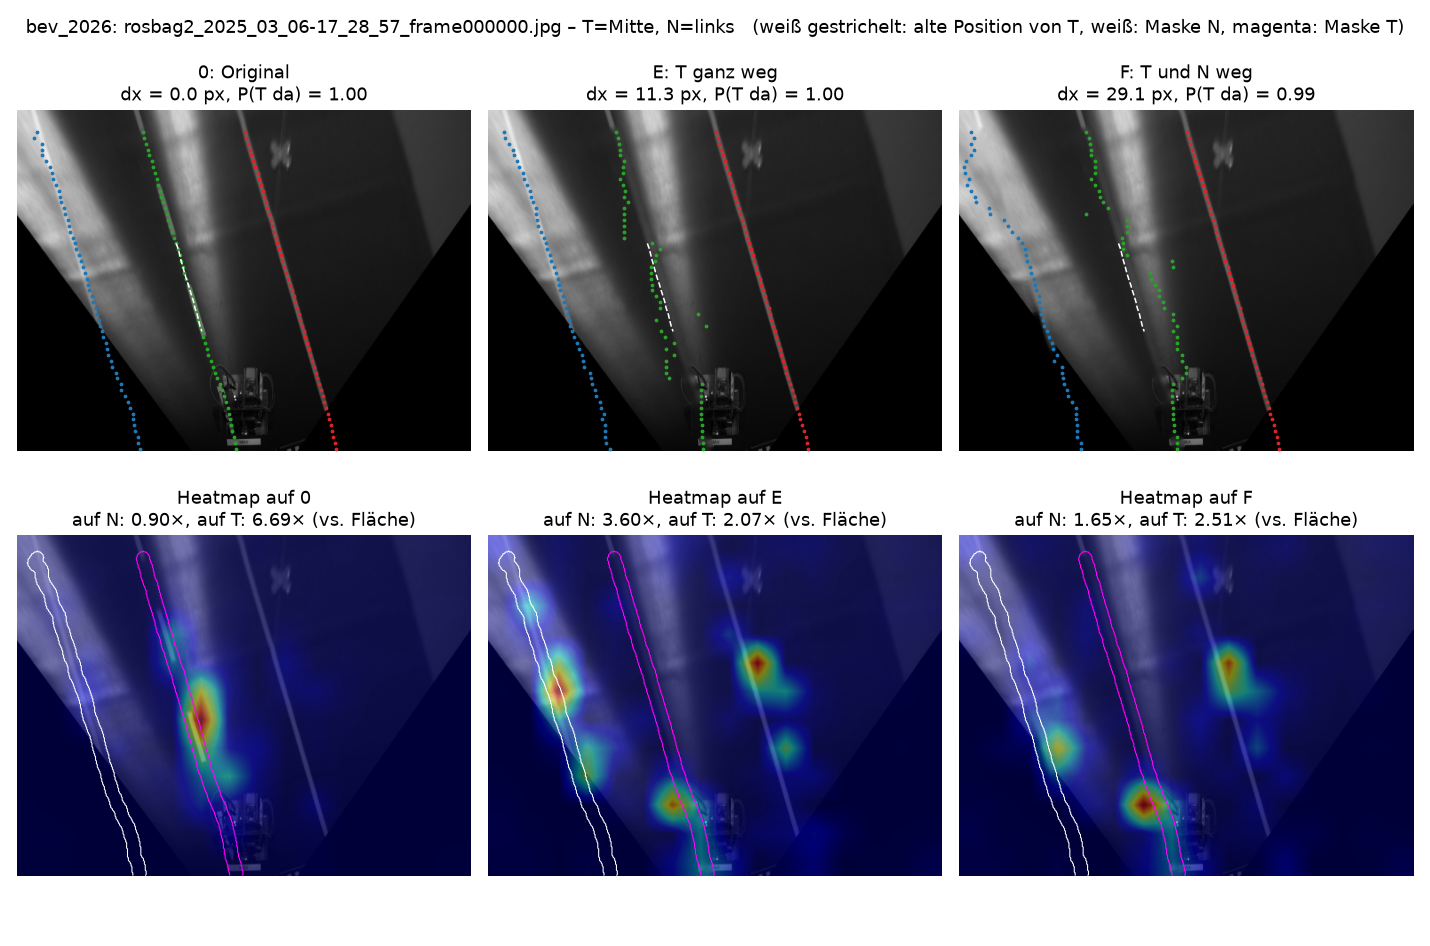
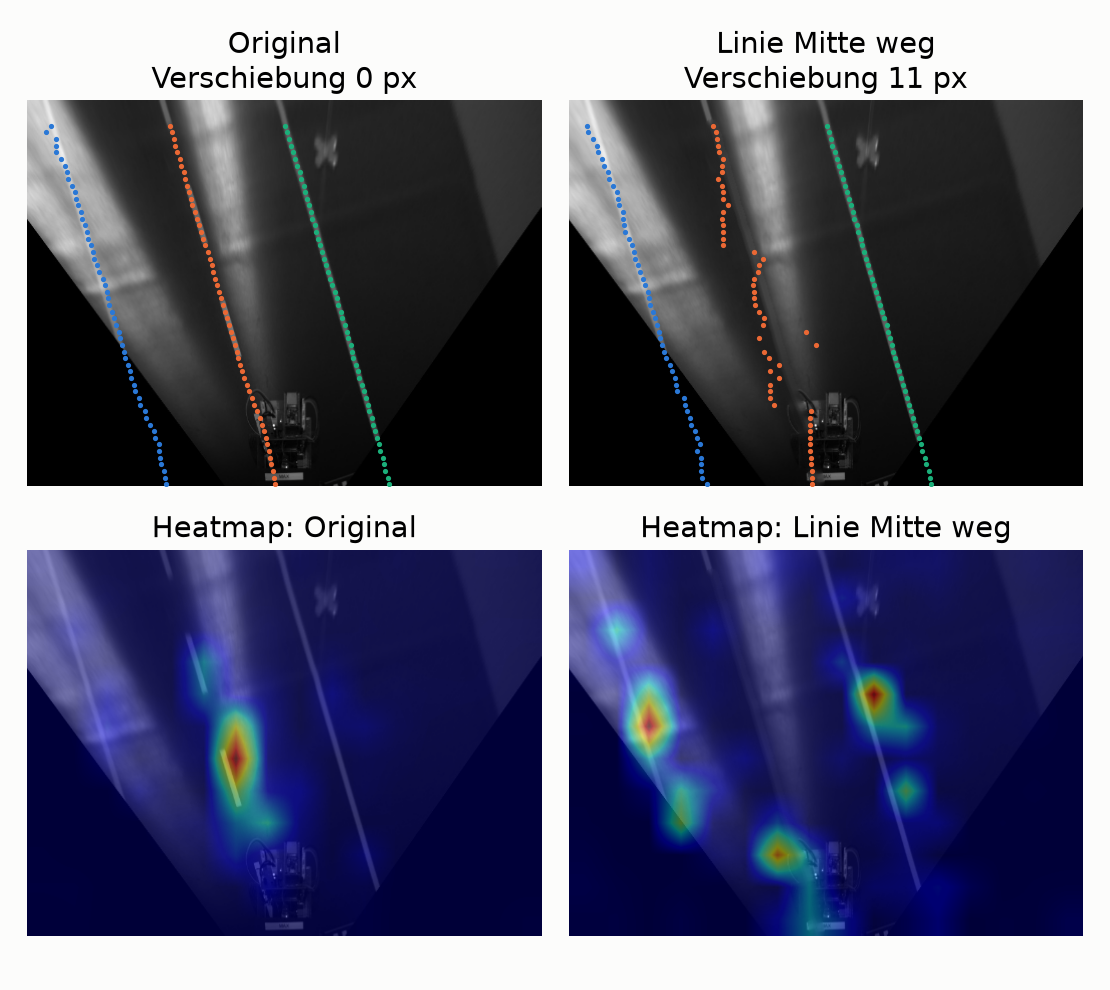
README an den Stand der Abgabe angepasst, Folienbilder und Herkunft ergänzt

diff --git a/experiments/08_praesi_bilder.py b/experiments/08_praesi_bilder.py
@@ -6,15 +6,25 @@ Schritt "Verdecken" (occlusion.py):
   3. Maske gefüllt mit inpaint (fill), so wie im Hauptergebnis
   4. Zum Vergleich: median, dort bleibt ein flacher Streifen sichtbar
 
+Schritt "Ein Beispiel" (run_frame wie 01_first_look.py, nur größer beschriftet für die Folie):
+  Original gegen T weg, oben mit Vorhersage, unten die Heatmaps
+
+Schritt "Heatmap pro Linie": für jede der drei Linien oben die Heatmap im Original
+  (wo sucht das Modell diese Linie?), unten dieselbe Linie weggenommen (wohin weicht es aus?)
+
+Schritt "Sanity Check": Heatmap trainiert gegen schrittweise zufällige Gewichte (wie 07_sanity_check.py)
+
 Schritt "Viele Bilder" (02_batch.py, muss vorher gelaufen sein):
-  links:  Verschiebung von T, E (nur T weg) gegen F (T und N weg), je Linienpaar
-  rechts: Heatmap auf N, Original gegen E (T weg), je Linienpaar
+  Heatmap auf N, Original gegen T weg, je Linienpaar
 
 Aufruf:  .venv/bin/python experiments/08_praesi_bilder.py [--frame 0] [--lane 1] [--model bev_2026]
-Ausgabe: docs/bilder/praesi/schritt_verdecken_ganz.png, schritt_viele_bilder.png
+Ausgabe: docs/bilder/praesi/schritt_verdecken_ganz.png, schritt_ein_bild.png, schritt_pro_linie.png,
+         schritt_sanity_heatmaps.png, schritt_viele_bilder.png
 """
 
 import argparse
+import copy
+import importlib
 
 import pandas as pd
 
@@ -27,6 +37,8 @@ import torch
 
 from xai_lane import paths
 from xai_lane.decode import decode_row_lanes
+from xai_lane.cam import compute_cam
+from xai_lane.experiment import default_layer, run_frame
 from xai_lane.model_loader import load_model
 from xai_lane.occlusion import fill, polyline_mask
 from xai_lane.preprocess import load_gray, to_model_rgb, to_tensor
@@ -34,6 +46,7 @@ from xai_lane.preprocess import load_gray, to_model_rgb, to_tensor
 OUT = paths.PROJECT_ROOT / "docs" / "bilder" / "praesi"
 LANE_NAMES = ["links", "Mitte", "rechts"]
 LANE_COLORS = ["#2a78d6", "#eb6834", "#1baf7a"]
+plt.rcParams.update({"font.size": 12})  # Folien: Schrift muss auch aus der letzten Reihe lesbar sein
 
 
 def predict_lanes(net, cfg, rgb):
@@ -58,25 +71,100 @@ def schritt_verdecken(net, cfg, rgb, T, out):
     mask = polyline_mask(lanes[T], rgb.shape[:2], thickness)  # ganze Linie T, wie Bedingung E
 
     panels = [
-        (rgb, f"1  Vorhersage des Modells\n(decode: 55 Punkte je Linie)"),
-        (overlay(rgb, mask), f"2  Maske: {thickness} px breit entlang\nder Linie {LANE_NAMES[T]} (polyline_mask)"),
-        (fill(rgb, mask, "inpaint"), "3  Gefüllt mit inpaint\n(sieht aus wie Straße)"),
-        (fill(rgb, mask, "median"), "Vergleich: median\n(flacher Streifen bleibt sichtbar)"),
+        (rgb, "1  Vorhersage\n(55 Punkte je Linie)"),
+        (overlay(rgb, mask), f"2  Maske\n({thickness} px entlang der Linie)"),
+        (fill(rgb, mask, "inpaint"), "3  Inpainting\n(sieht aus wie Straße)"),
+        (fill(rgb, mask, "median"), "Vergleich: flache Füllung\n(Streifen bleibt sichtbar)"),
     ]
-    fig, axes = plt.subplots(1, 4, figsize=(16, 3.9))
+    fig, axes = plt.subplots(1, 4, figsize=(12, 3.4))
     for i, (ax, (img, title)) in enumerate(zip(axes, panels)):
         ax.imshow(img)
-        ax.set_title(title, loc="left", fontsize=11, color="#0b0b0b" if i < 3 else "#52514e")
+        ax.set_title(title, loc="left", fontsize=13, color="#0b0b0b" if i < 3 else "#52514e")
         ax.axis("off")
     for k, lane in enumerate(lanes):  # Punkte nur im ersten Panel
         ok = ~np.isnan(lane).any(axis=1)
         axes[0].scatter(lane[ok, 0], lane[ok, 1], s=7, color=LANE_COLORS[k],
                         label=LANE_NAMES[k] + (" (= T)" if k == T else ""))
-    axes[0].legend(loc="lower left", fontsize=8, frameon=True, markerscale=2)
+    axes[0].legend(loc="lower left", fontsize=10, frameon=True, markerscale=2)
     for spine in axes[3].spines.values():
         spine.set_visible(True)
-    fig.suptitle("Verdecken: Wir nehmen die ganze Linie aus dem Bild", x=0.01, ha="left",
-                 fontsize=14, color="#0b0b0b")
+    fig.patch.set_facecolor("#fcfcfb")
+    fig.tight_layout()
+    fig.savefig(out, dpi=150)
+    plt.close(fig)
+    print(f"  {out.relative_to(paths.PROJECT_ROOT)}")
+
+
+def schritt_ein_bild(net, cfg, rgb, T, N, out):
+    """Ein Bild, Original gegen T weg: oben Vorhersage, unten Heatmap (wie 01_first_look.py).
+
+    Bedingung F (zwei Linien weg) kommt auf den Folien nicht als Bild vor, nur als Gegenprobe in Zahlen.
+    """
+    res = run_frame(net, cfg, rgb, T, N, conditions=("0", "E"), cam_images=("0", "E"))
+    titles = {"0": "Original", "E": f"Linie {LANE_NAMES[T]} weg"}
+    fig, axes = plt.subplots(2, 2, figsize=(7.4, 6.6))
+    for ax, (name, img) in zip(axes[0], res.imgs.items()):
+        ax.imshow(img)
+        for k, pts in enumerate(res.preds[name]):
+            ax.plot(pts[:, 0], pts[:, 1], ".", ms=3, color=LANE_COLORS[k])
+        ax.set_title(f"{titles[name]}\nVerschiebung {res.table.loc[name, 'dx_mittel_px']:.0f} px", fontsize=14)
+    for ax, ((img_name, _), cam) in zip(axes[1], res.cams.items()):
+        ax.imshow(res.imgs[img_name])
+        ax.imshow(cam, cmap="jet", alpha=0.45)
+        ax.set_title(f"Heatmap: {titles[img_name]}", fontsize=14)
+    for ax in axes.flat:
+        ax.axis("off")
+    fig.patch.set_facecolor("#fcfcfb")
+    fig.tight_layout()
+    fig.savefig(out, dpi=150)
+    plt.close(fig)
+    print(f"  {out.relative_to(paths.PROJECT_ROOT)}")
+
+
+def schritt_pro_linie(net, cfg, rgb, out):
+    """Pro Linie eine Spalte: oben Heatmap im Original, unten Heatmap mit dieser Linie weggenommen.
+
+    Ziel ist hier die ganze Linie (span 0–1), damit man sieht, wo das Modell die Linie überall sucht.
+    """
+    neighbor = {0: 1, 1: 2, 2: 1}  # N wird nur für die Prüfung in run_frame gebraucht
+    fig, axes = plt.subplots(2, 3, figsize=(10.5, 6.6))
+    for T in range(3):
+        res = run_frame(net, cfg, rgb, T, neighbor[T], span=(0, 1), cam_images=("0", "E"))
+        for row, name in enumerate(("0", "E")):
+            ax = axes[row, T]
+            ax.imshow(res.imgs[name])
+            ax.imshow(res.cams[(name, "hirescam")], cmap="jet", alpha=0.45)
+            ax.set_title(f"Linie {LANE_NAMES[T]}" + (" gesucht" if name == "0" else " weg"), fontsize=14,
+                         color=LANE_COLORS[T] if name == "0" else "#0b0b0b")
+            ax.axis("off")
+    fig.patch.set_facecolor("#fcfcfb")
+    fig.tight_layout()
+    fig.savefig(out, dpi=150)
+    plt.close(fig)
+    print(f"  {out.relative_to(paths.PROJECT_ROOT)}")
+
+
+def schritt_sanity_heatmaps(net, cfg, rgb, T, out):
+    """2 × 2 Heatmaps: trainiert, letzte Schicht zufällig, bis layer4 zufällig, alles zufällig."""
+    sanity = importlib.import_module("07_sanity_check")  # experiments/ liegt beim Aufruf im Suchpfad
+    target, _ = sanity.targets_for(net, cfg, rgb)[T]
+    x = to_tensor(rgb)
+    layer = default_layer(cfg)
+    show = {"trainiert": "trainiert", "cls.3": "+ letzte Schicht zufällig",
+            "layer4": "+ bis layer4 zufällig", "conv1": "alles zufällig"}
+    cams = {"trainiert": compute_cam(net, x, target, "hirescam", layer)}
+    torch.manual_seed(0)
+    rnd = copy.deepcopy(net)  # Kopie, das trainierte Netz bleibt heil
+    for stage, modules in sanity.STAGES[1:]:
+        sanity.randomize(rnd, modules)
+        if stage in show:
+            cams[stage] = compute_cam(rnd, x, target, "hirescam", layer)
+    fig, axes = plt.subplots(2, 2, figsize=(7, 5.6))
+    for ax, (stage, cam) in zip(axes.flat, cams.items()):
+        ax.imshow(rgb)
+        ax.imshow(cam, cmap="jet", alpha=0.5, vmin=0, vmax=1)
+        ax.set_title(show[stage], fontsize=14)
+        ax.axis("off")
     fig.patch.set_facecolor("#fcfcfb")
     fig.tight_layout()
     fig.savefig(out, dpi=150)
@@ -86,18 +174,18 @@ def schritt_verdecken(net, cfg, rgb, T, out):
 
 def _bars(ax, s, left, right, labels, colors, ylabel, title):
     """Zwei Balken je Linienpaar (gepaarter Vergleich), Wert über jeden Balken geschrieben."""
-    groups = [f"{LANE_NAMES[t]} ← {LANE_NAMES[n]}" for t, n in zip(s["T"], s.N)]
+    groups = [f"{LANE_NAMES[t]}\n← {LANE_NAMES[n]}" for t, n in zip(s["T"], s.N)]
     w = 0.38
     for off, col, lab, color in ((-w / 2, left, labels[0], colors[0]), (w / 2, right, labels[1], colors[1])):
         x = np.arange(len(s)) + off
         ax.bar(x, s[col], w, color=color, label=lab, edgecolor="#fcfcfb", linewidth=2)
         for xi, v in zip(x, s[col]):
-            ax.text(xi, v, f"{v:.1f}", ha="center", va="bottom", fontsize=9, color="#52514e")
-    ax.set_ylim(0, 1.3 * s[[left, right]].max().max())  # Platz für die Legende über den Balken
+            ax.text(xi, v, f"{v:.1f}", ha="center", va="bottom", fontsize=11, color="#52514e")
+    ax.set_ylim(0, 1.45 * s[[left, right]].max().max())  # Platz für die Legende über den Balken
     ax.set_xticks(range(len(s)), groups)
     ax.set_xlabel("Linie T ← Nachbarlinie N", color="#52514e")
     ax.set_ylabel(ylabel, color="#52514e")
-    ax.set_title(title, loc="left", color="#0b0b0b")
+    ax.set_title(title, loc="left", color="#0b0b0b", fontsize=13)
     ax.legend(frameon=False, loc="upper left")
     ax.grid(axis="y", color="#e4e3df", linewidth=0.8)
     ax.set_axisbelow(True)
@@ -114,13 +202,10 @@ def schritt_viele_bilder(model, out):
         print(f"  übersprungen, erst 02_batch.py laufen lassen ({csv} fehlt)")
         return
     s = pd.read_csv(csv)
-    fig, (a1, a2) = plt.subplots(1, 2, figsize=(14, 4.8))
-    _bars(a1, s, "dx_E_median_pct", "dx_F_median_pct", ["E: T weg", "F: T und N weg"], ["#2a78d6", "#eb6834"],
-          "Verschiebung von T\n(Median, % der Bildbreite)", "Ohne Nachbarlinie liegt T weiter daneben")
-    _bars(a2, s, "cam_N_0_median", "cam_N_E_median", ["Original", "E: T weg"], ["#a8a7a2", "#2a78d6"],
+    # nur die Heatmap: F (zwei Linien weg) ist nur eine Gegenprobe und kommt als Zahl auf die Folie
+    fig, ax = plt.subplots(figsize=(7.2, 4.3))
+    _bars(ax, s, "cam_N_0_median", "cam_N_E_median", ["Original", "Linie T weg"], ["#a8a7a2", "#2a78d6"],
           "Heatmap auf N\n(Median, × erwartet nach Fläche)", "Fehlt T, schaut das Modell mehr auf N")
-    fig.suptitle(f"{s.n_Bilder.min()}–{s.n_Bilder.max()} Bilder je Linienpaar, Modell {model}",
-                 x=0.01, ha="left", fontsize=11, color="#52514e")
     fig.patch.set_facecolor("#fcfcfb")
     fig.tight_layout()
     fig.savefig(out, dpi=150)
@@ -132,6 +217,8 @@ def main() -> None:
     p = argparse.ArgumentParser()
     p.add_argument("--frame", type=int, default=0)
     p.add_argument("--lane", type=int, default=1, help="Ziellinie T: 0 links, 1 Mitte, 2 rechts")
+    p.add_argument("--beispiel", type=int, nargs=2, default=(1, 0), metavar=("T", "N"),
+                   help="Linienpaar für die Beispielfolie, Standard: Mitte weg, Nachbar links")
     p.add_argument("--model", default=paths.DEFAULT_MODEL)
     args = p.parse_args()
 
@@ -140,6 +227,9 @@ def main() -> None:
     rgb = to_model_rgb(load_gray(image), cfg.train_width, cfg.train_height)
     OUT.mkdir(parents=True, exist_ok=True)
     schritt_verdecken(net, cfg, rgb, args.lane, OUT / "schritt_verdecken_ganz.png")
+    schritt_ein_bild(net, cfg, rgb, *args.beispiel, OUT / "schritt_ein_bild.png")
+    schritt_pro_linie(net, cfg, rgb, OUT / "schritt_pro_linie.png")
+    schritt_sanity_heatmaps(net, cfg, rgb, args.lane, OUT / "schritt_sanity_heatmaps.png")
     schritt_viele_bilder(args.model, OUT / "schritt_viele_bilder.png")
 
 

diff --git a/src/xai_lane/cam.py b/src/xai_lane/cam.py
@@ -1,6 +1,6 @@
 """HiResCAM (pytorch-grad-cam) für die UFLDv2-Zeilenanker.
 
-Grad-CAM wurde anfangs mitgerechnet und am 2026-11-13 entfernt, siehe docs/PROTOKOLL.md.
+Grad-CAM wurde anfangs mitgerechnet und am 2026-11-13 entfernt, Begründung im README.
 
 pytorch-grad-cam erwartet ein Modell mit einem Tensor als Ausgabe; das Modell
 des Teams liefert ein Dict. LocRowOnly gibt daher nur loc_row weiter.

diff --git a/src/xai_lane/experiment.py b/src/xai_lane/experiment.py
@@ -23,7 +23,7 @@ from xai_lane.occlusion import fill, polyline_mask
 from xai_lane.preprocess import to_tensor
 
 CONDITIONS = ("0", "E", "F")
-CAM_METHODS = ("hirescam",)  # Grad-CAM entfernt, siehe docs/PROTOKOLL.md
+CAM_METHODS = ("hirescam",)  # Grad-CAM entfernt, Begründung im README
 
 
 @dataclass

diff --git a/README.md b/README.md
@@ -1,32 +1,56 @@
 # XAI-Projekt: Nutzt die Spurerkennung benachbarte Markierungen?
 
-Projekt für das Explainable-AI-Modul (Abgabe: Präsentation + Code). Untersucht wird die UFLDv2-Spurerkennung des
-DHBW-Smart-Rollerz-Teams (ResNet-„9“; Standard `best_model_bev_2026.pth` mit Eingabe 512×384,
-Vergleich mit dem älteren `best_model_bev.pth` mit 128×96, Auswahl per `--model bev_2026|bev`):
-Nutzt das Modell benachbarte Fahrbahnmarkierungen, um eine teilweise verdeckte
-Linie zu erkennen?
+Projekt für das Explainable-AI-Modul (Abgabe: Präsentation + Code). Untersucht wird die
+UFLDv2-Spurerkennung des DHBW-Smart-Rollerz-Teams (ResNet-„9“, `best_model_bev_2026.pth`,
+Eingabe 512×384, drei Linien: links, Mitte, rechts).
 
-Methoden: gezielte Verdeckungsexperimente (Bedingungen A–F) und HiResCAM, danach Abgleich
-der Erklärungen mit den Experimenten. Kein Neutraining. Grad-CAM wurde anfangs mitverglichen
-und dann verworfen, siehe [docs/PROTOKOLL.md](docs/PROTOKOLL.md).
+**Frage:** Fehlt eine Fahrbahnlinie ganz, orientiert sich das Modell dann an der Nachbarlinie?
 
-**Erklärung mit Bildern:** [docs/ERKLAERUNG.md](docs/ERKLAERUNG.md) – wie das Experiment funktioniert,
-wie man die Abbildungen liest, bisherige Ergebnisse und alle Befehle.
+**Vorgehen:** Für eine Ziellinie T und eine Nachbarlinie N wird die Linie im Bild weggenommen
+(Inpainting entlang der vorhergesagten Linie) und neu vorhergesagt:
+
+| Bedingung | Was fehlt |
+|---|---|
+| 0 | nichts (Referenz) |
+| E | T ganz |
+| F | T und N ganz |
+
+Gemessen wird an den mittleren Zeilenankern (35–65 %, beim 2026er-Modell Anker 19–34), wie weit
+sich T verschiebt. Ist F deutlich schlechter als E, hat das Modell N benutzt. Dazu zeigt HiResCAM,
+welche Bildstellen T an der alten Stelle halten, und es wird geprüft, ob die Heatmap pro Bild zum
+gemessenen Effekt passt (Spearman). Grad-CAM wurde anfangs mitverglichen und verworfen: Es mittelt
+den Gradienten über alle Stellen, beim vollverbundenen Kopf von UFLDv2 ist der Gradient aber je
+Stelle verschieden. Kein Neutraining.
+
+Was von uns ist und was übernommen wurde: [docs/HERKUNFT.md](docs/HERKUNFT.md).
 
 ## Struktur
 
 | Ordner | Inhalt |
 |---|---|
-| `src/xai_lane/` | eigener Code (Loader, Vorverarbeitung, Verdeckung, CAM, Analyse) |
-| `experiments/` | ausführbare Skripte/Notebooks, nummeriert nach Schritt |
-| `results/<modell>/` | erzeugte Ausgaben je Modell (nicht im git, jederzeit reproduzierbar) |
-| `docs/` | Erklärung mit Bildern (`ERKLAERUNG.md`, Bilder in `docs/bilder/`), Entscheidungen (`PROTOKOLL.md`), Zahlen-Belege als CSV (`docs/belege/`) |
-| `presentation/` | Folien für die Abgabe |
-| `training/` | Fine-Tuning mit Linien-Verdeckung auf dem DGX: Patch für das Team-Repo und Schritt-für-Schritt-Anleitung (`DGX_ANLEITUNG.md`) |
-| `models/` | selbst trainierte Gewichte vom DGX (nicht im git), Auswahl per `--model bev_2026_kontrolle` / `bev_2026_verdeckung` |
+| `src/xai_lane/` | eigener Code: Pfade, Modell laden, Vorverarbeitung, Dekodieren, Verdecken, HiResCAM, Experiment (`run_frame`) |
+| `experiments/` | ausführbare Skripte, nummeriert nach Schritt |
+| `docs/` | Herkunft des Codes, Folienbilder in `docs/bilder/praesi/` |
+| `results/<modell>/` | erzeugte Ausgaben (nicht im git, jederzeit reproduzierbar) |
 
-Modell, Config, Testbilder und Modellcode werden **nur lesend** per absolutem Pfad
-aus `~/Documents/smarty_workspace/src/lane_detection_ai` verwendet
+## Skripte
+
+| Skript | Was es macht |
+|---|---|
+| `00_check_setup.py` | Modell lädt mit `strict=True`, Ausgabeformen, Gradienten an layer4 |
+| `01_first_look.py` | ein Bild: Bedingungen 0, E, F und Heatmaps |
+| `02_batch.py` | Hauptexperiment über viele Bilder und alle Linienpaare, Wilcoxon-Test und Spearman |
+| `07_sanity_check.py` | Sanity Check nach Adebayo et al. 2018: Gewichte schrittweise zufällig, Heatmap muss zerfallen |
+| `08_praesi_bilder.py` | Bilder für die Folien (braucht vorher einen Lauf von `02_batch.py`) |
+
+Häufige Optionen: `--model bev_2026|bev`, `--lane` / `--neighbor` (0 links, 1 Mitte, 2 rechts),
+`--fill inpaint|median|blendung`. `02_batch.py --step 20` dauert mit `bev_2026` auf der CPU etwa
+eine Stunde und lässt sich mit `--resume` fortsetzen.
+
+## Modell und Daten
+
+Modell, Config, Testbilder und Modellcode gehören dem Team und sind **nicht** in diesem Repo. Sie
+werden nur lesend aus `~/Documents/smarty_workspace/src/lane_detection_ai` verwendet
 (siehe `src/xai_lane/paths.py`, überschreibbar mit `LANE_DETECTION_ROOT`).
 
 ## Setup
@@ -39,9 +63,11 @@ python3.12 -m venv .venv
 .venv/bin/python experiments/00_check_setup.py
 ```
 
-## Offene Punkte (mit dem Team klären)
+## Grenzen
 
-- Config nennt Originalgröße 1364×944, die Testbilder sind 800×640.
-- `row_anchor` in `get_config` (`linspace(100, 1540, num_row) / 1550`) ist evtl.
-  nicht die Formel aus dem Training – wichtig für die Zuordnung Anker-Zeile ↔ Bildzeile.
-- Trainingscode (Lightning/Optuna) und Labels liegen nicht im Repo.
+- Keine Labels: Die Referenz ist die Vorhersage auf dem Originalbild. Gemessen wird, wie stark sich
+  das Modell ändert, nicht, wie richtig es ist.
+- Die Masken folgen den Vorhersagen. Wo eine Linie nur geraten ist (oft links), wird keine echte
+  Markierung übermalt.
+- Die Formel der Zeilenanker (`linspace(100, 1540, num_row) / 1550`) stammt aus der Config und ist
+  nicht mit dem Trainingscode abgeglichen.

diff --git a/docs/HERKUNFT.md b/docs/HERKUNFT.md
@@ -1,0 +1,49 @@
+# Herkunft: Was ist von uns, was haben wir übernommen?
+
+Drei Stufen:
+
+- **Fremd**: nur benutzt, nicht von uns. Grob erklären können reicht.
+- **Formel übernommen, Code selbst**: Die Idee ist fremd, die Umsetzung ist von uns.
+- **Eigen**: von uns entworfen und geschrieben. Muss man im Detail erklären können.
+
+---
+
+## 1. Fremd: nur benutzt
+
+| Was | Von wem | Wo es bei uns auftaucht |
+|---|---|---|
+| **UFLDv2-Verfahren**: Zeilen-/Spaltenanker, pro Anker „welches Kästchen?“ als Klassifikation, `exist`-Ausgabe, ResNet + 1×1-Faltung + vollverbundener Kopf | Qin, Zhang, Li: *Ultra Fast Deep Lane Detection with Hybrid Anchor Driven Ordinal Classification*, IEEE TPAMI 2022 ([Code](https://github.com/cfzd/Ultra-Fast-Lane-Detection-v2)) | die ganze Modellausgabe (`loc_row`, `exist_row` …) |
+| **Modellcode** `ParsingNet`, `get_model`, `get_config` | Smart-Rollerz-Team (`lane_detection_ai/model/`), basiert auf UFLDv2 | `model_loader.py` importiert ihn nur, ändert nichts |
+| **ResNet-„9“** (BasicBlock, je 1 Block in layer1–4) | ResNet: He et al. 2016, Bausteine aus `torchvision`; die „9“-Variante ist vom Team | im Modell |
+| **Trainierte Gewichte, Config, Testbilder** | Smart-Rollerz-Team (`models/`) | `paths.py` zeigt nur darauf, wir lesen sie nur |
+| **ImageNet-Mittelwerte/-Streuung** | Standardwerte von ImageNet / torchvision | `preprocess.py` |
+| **HiResCAM-Rechnung** | Draelos & Carin 2020 (Methode), Bibliothek `pytorch-grad-cam` (Code) | `cam.py` ruft sie nur auf |
+| **Inpainting (Telea)**, Linien zeichnen, Weichzeichnen | OpenCV (`cv2.inpaint`, `cv2.polylines`, `cv2.dilate`, `cv2.GaussianBlur`) | `occlusion.py` |
+| **Statistik-Tests** Wilcoxon, Spearman | SciPy | `02_batch.py`, `07_sanity_check.py` |
+| **Idee Sanity Check** (Schichten zufällig machen) | Adebayo et al. 2018 | `07_sanity_check.py` setzt sie selbst um |
+
+**Satz für den Prof:** „Das Modell und seine Ausgabeform sind UFLDv2 vom Team. HiResCAM kommt aus `pytorch-grad-cam`. Wir haben nichts davon verändert, nur benutzt.“
+
+---
+
+## 2. Formel übernommen, Code selbst
+
+| Datei | Was übernommen ist | Was wir anders machen und warum |
+|---|---|---|
+| `src/xai_lane/decode.py` | Dekodier-Formel aus UFLDv2 (`pred2coords`): Gewinner-Kästchen ± 1, Softmax, gewichteter Mittelwert, + 0.5, / (grid − 1) | **keine Rundung** auf ganze Pixel (sonst wäre ein Effekt von 0,7 px unsichtbar); **NaN statt Weglassen**, immer 55 Zeilen (sonst kann man Zeile k vorher/nachher nicht vergleichen); gibt zusätzlich die **Gewinner-Kästchen** zurück (Ziel für HiResCAM); Modellauflösung statt Originalgröße; nur Zeilenanker |
+| `src/xai_lane/model_loader.py` | Ablauf „Config lesen → Netz bauen → Gewichte laden“ wie im `model_wrapper.py` des Teams | **`strict=True`**: passt ein Gewicht nicht, bricht es ab. Der Team-Wrapper lädt mit `strict=False`, dort würde ein Fehler unbemerkt bleiben. Liest beide Checkpoint-Formate (alt und Lightning) |
+| `src/xai_lane/preprocess.py` | Standard-Vorverarbeitung: Größe ändern, durch 255 teilen, ImageNet-Normalisierung | selbst geschrieben, Graustufe → 3 Kanäle für die BEV-Bilder |
+
+---
+
+## 3. Eigen
+
+| Datei | Was es ist |
+|---|---|
+| `src/xai_lane/paths.py` | Wo liegt was, Auswahl mehrerer Modelle per `--model` |
+| `src/xai_lane/occlusion.py` | Maske entlang einer vorhergesagten Linie, drei Füllarten (median, inpaint, blendung) |
+| `src/xai_lane/cam.py` | **`RowBinTarget`**: *was* die Heatmap erklärt (Punktzahl der Gewinner-Kästchen in den verdeckten Ankern); `LocRowOnly`; `energy_share` (Anteil der Heatmap in einer Maske) |
+| `src/xai_lane/experiment.py` | **Die Versuchsanordnung**: Bedingungen 0, E, F, Verschiebung dx, Auswahl der Anker 35–65 % |
+| `experiments/` | Alle Auswertungen, Statistik, Folienbilder, Sanity Check |
+
+**Satz für den Prof:** „Unser Beitrag ist die Versuchsanordnung: was verdeckt wird, wie gemessen wird und wie wir die Heatmap mit dem Messergebnis abgleichen. Modell und Erklärverfahren haben wir nicht erfunden.“
